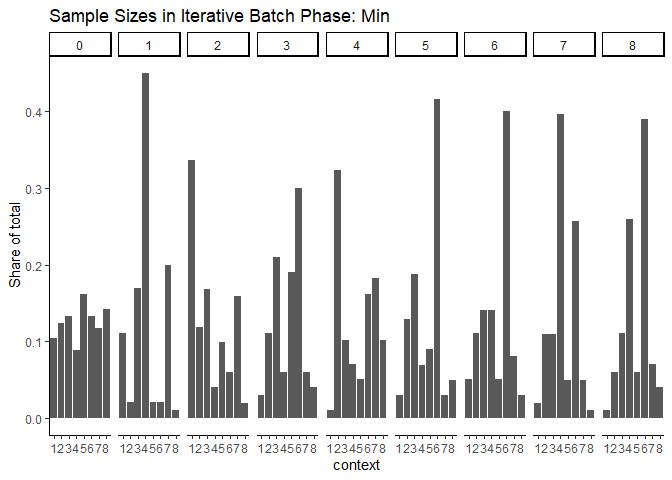
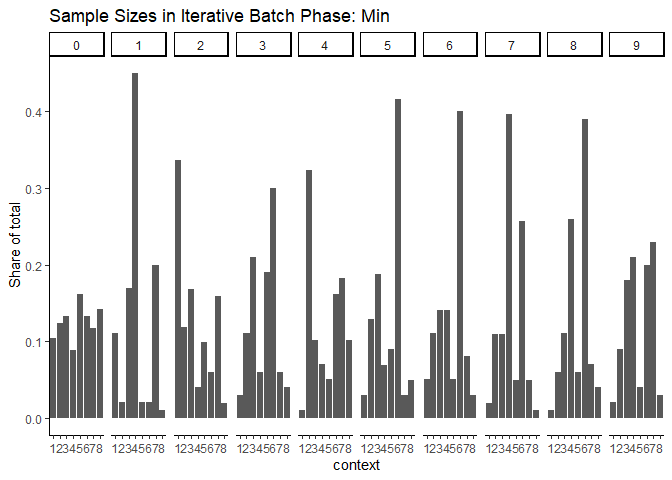
updating data: batch 9, min discriminatory context

diff --git a/04_update_prob/get_qualtrics_data_political_candidates.md b/04_update_prob/get_qualtrics_data_political_candidates.md
@@ -53,7 +53,7 @@ survey_name <- "Political Candidates"
 df <- load_qualtrics(survey_name)
 ```
 
-    ##   |                                                                              |                                                                      |   0%  |                                                                              |=======                                                               |  10%  |                                                                              |================================                                      |  46%  |                                                                              |=========================================================             |  82%  |                                                                              |======================================================================| 100%
+    ##   |                                                                              |                                                                      |   0%  |                                                                              |=======                                                               |  10%  |                                                                              |===========================                                           |  39%  |                                                                              |============================================                          |  63%  |                                                                              |=============================================================         |  87%  |                                                                              |====================================================================  |  97%  |                                                                              |======================================================================| 100%
 
     ## 
     ## ── Column specification ────────────────────────────────────────────────────────
@@ -88,7 +88,7 @@ df %>%
   nrow()
 ```
 
-    ## [1] 1956
+    ## [1] 2058
 
 ``` r
 # drop test data
@@ -101,21 +101,21 @@ df %>%
   nrow()
 ```
 
-    ## [1] 1833
+    ## [1] 1935
 
 ``` r
 # average finished rate
 mean(df$Finished)
 ```
 
-    ## [1] 0.9956356
+    ## [1] 0.9958656
 
 ``` r
 # average time to complete
 mean(df$`Duration (in seconds)`)
 ```
 
-    ## [1] 96.20786
+    ## [1] 96.88786
 
 ``` r
 # compare amount of time spent
@@ -133,7 +133,7 @@ df %>%
     ## # A tibble: 1 × 4
     ##   `Duration (in seconds)_mean` Duration (in seconds)_mi…¹ Duration (in seconds…²
     ##                          <dbl>                      <dbl>                  <dbl>
-    ## 1                         1.60                      0.433                   25.6
+    ## 1                         1.61                      0.433                   25.6
     ## # ℹ abbreviated names: ¹`Duration (in seconds)_min`,
     ## #   ²`Duration (in seconds)_max`
     ## # ℹ 1 more variable: `Duration (in seconds)_median` <dbl>
@@ -159,7 +159,7 @@ df %>%
     ## 3 2023-12-30 2023-12-30 11:00:19
     ## 4 2024-01-02 2024-01-02 15:04:43
     ## 5 2024-01-03 2024-01-03 18:00:25
-    ## 6 2024-01-04 2024-01-04 11:50:45
+    ## 6 2024-01-04 2024-01-04 12:20:36
 
 ``` r
 df <- df %>%
@@ -180,6 +180,7 @@ df <- df %>%
       StartDate_clean <= ymd_hms("2024-01-04-10-05-00") ~ 6,
       StartDate_clean <= ymd_hms("2024-01-04-10-55-00") ~ 7,
       StartDate_clean <= ymd_hms("2024-01-04-11-58-00") ~ 8,
+      StartDate_clean <= ymd_hms("2024-01-04-12-33-00") ~ 9,
       TRUE ~ NA_integer_
     ),
     batch_type = case_when(
@@ -200,7 +201,7 @@ df %>%
     ## `summarise()` has grouped output by 'batch_type'. You can override using the
     ## `.groups` argument.
 
-    ## # A tibble: 13 × 3
+    ## # A tibble: 14 × 3
     ## # Groups:   batch_type [3]
     ##    batch_type                 batch_id     n
     ##    <chr>                         <dbl> <int>
@@ -216,24 +217,36 @@ df %>%
     ## 10 Iterative Batch Phase: Min        6   101
     ## 11 Iterative Batch Phase: Min        7   101
     ## 12 Iterative Batch Phase: Min        8   100
-    ## 13 Warmup                            0   323
+    ## 13 Iterative Batch Phase: Min        9   102
+    ## 14 Warmup                            0   323
 
 ## Survey Validation
 
 ``` r
 # check ID uniquely identifies rows in data
 if (length(unique(df$`Prolific ID Q`)) != nrow(df)) {
-  print("ID is not unique")
+  warning("ID is not unique")
 }
 ```
 
-    ## [1] "ID is not unique"
+    ## Warning: ID is not unique
 
 ``` r
-if (unique(df$Status) != "IP Address") {
-  print("Test data included in the analysis file")
+if (!all(unique(df$Status) == "IP Address")) {
+  warning("Test/spam data included in the analysis file")
+  print(str_glue("Number of observations in data: {nrow(df)}"))
+  print(str_glue("Status values in data: {str_c(unique(df$Status), collapse=', ')}"))
+  df <- df %>% 
+    filter(Status == "IP Address")
+  print(str_glue("Number of observations left in data: {nrow(df)}"))
 }
 ```
+
+    ## Warning: Test/spam data included in the analysis file
+
+    ## Number of observations in data: 1634
+    ## Status values in data: IP Address, Spam
+    ## Number of observations left in data: 1633
 
 ``` r
 # check embedded data variables match probabilities for all iterative batches
@@ -248,7 +261,7 @@ df %>%
   distinct()
 ```
 
-    ## # A tibble: 13 × 8
+    ## # A tibble: 14 × 8
     ##    batch_id   pi1   pi2   pi3   pi4   pi5   pi6   pi7
     ##       <dbl> <dbl> <dbl> <dbl> <dbl> <dbl> <dbl> <dbl>
     ##  1        0 0.125 0.25  0.375 0.5   0.625 0.75  0.875
@@ -264,6 +277,7 @@ df %>%
     ## 11        6 0.045 0.123 0.288 0.392 0.474 0.891 0.965
     ## 12        7 0.022 0.112 0.218 0.572 0.637 0.878 0.963
     ## 13        8 0.017 0.073 0.193 0.444 0.498 0.869 0.968
+    ## 14        9 0.027 0.093 0.243 0.484 0.547 0.783 0.968
 
 ``` r
 # check consent means their responses are missing
@@ -288,7 +302,7 @@ df <- df %>%
     ## Warning in check_consent(.): 1 survey respondents who do not consent with
     ## non-missing responses
 
-    ## Warning in check_consent(.): 1531 respondents in the data
+    ## Warning in check_consent(.): 1632 respondents in the data
 
 ``` r
 # check that all completed
@@ -322,7 +336,7 @@ df <- df %>%
     ## Warning in check_completion(.): Dropping 8 survey respondents who did not
     ## finish
 
-    ## Warning in check_completion(.): 1523 respondents in the data
+    ## Warning in check_completion(.): 1624 respondents in the data
 
 ``` r
 df <- df %>%
@@ -365,12 +379,12 @@ df <- df %>%
     ## Warning in check_commitment(.): Dropping 1 survey respondents did not pass
     ## commitment check 1
 
-    ## Warning in check_commitment(.): 1522 respondents in the data
+    ## Warning in check_commitment(.): 1623 respondents in the data
 
     ## Warning in check_commitment(.): Dropping 2 survey respondents who did not pass
     ## commitment check 2
 
-    ## Warning in check_commitment(.): 1520 respondents in the data
+    ## Warning in check_commitment(.): 1621 respondents in the data
 
 ``` r
 # check ID is unique again
@@ -400,24 +414,24 @@ if (length(unique(df$`Prolific ID Q`)) != nrow(df)) {
 
     ## Warning: ID is not unique
 
-    ## Number of rows in data: 1520
-    ## # A tibble: 1,520 × 8
+    ## Number of rows in data: 1621
+    ## # A tibble: 1,621 × 8
     ##        n StartDate_clean     EndDate             flag_first_obs
     ##    <int> <dttm>              <dttm>                       <dbl>
     ##  1     2 2024-01-03 12:29:24 2024-01-03 12:31:07              1
     ##  2     2 2024-01-03 12:31:17 2024-01-03 12:33:13              0
     ##  3     2 2024-01-04 09:54:05 2024-01-04 09:55:22              1
     ##  4     2 2024-01-04 09:55:45 2024-01-04 09:56:47              0
-    ##  5     1 2023-12-26 18:01:49 2023-12-26 18:03:03              1
-    ##  6     1 2023-12-26 18:01:49 2023-12-26 18:02:38              1
-    ##  7     1 2023-12-26 18:01:49 2023-12-26 18:02:59              1
-    ##  8     1 2023-12-26 18:01:54 2023-12-26 18:02:47              1
-    ##  9     1 2023-12-26 18:02:01 2023-12-26 18:03:53              1
-    ## 10     1 2023-12-26 18:02:05 2023-12-26 18:04:08              1
-    ## # ℹ 1,510 more rows
+    ##  5     2 2024-01-04 12:12:57 2024-01-04 12:13:43              1
+    ##  6     2 2024-01-04 12:13:50 2024-01-04 12:14:29              0
+    ##  7     1 2023-12-26 18:01:49 2023-12-26 18:03:03              1
+    ##  8     1 2023-12-26 18:01:49 2023-12-26 18:02:38              1
+    ##  9     1 2023-12-26 18:01:49 2023-12-26 18:02:59              1
+    ## 10     1 2023-12-26 18:01:54 2023-12-26 18:02:47              1
+    ## # ℹ 1,611 more rows
     ## # ℹ 4 more variables: `Duration (in seconds)` <dbl>, Finished <lgl>,
     ## #   batch_id <dbl>, batch_type <chr>
-    ## Number of rows in data after dropping duplicate ID: 1518
+    ## Number of rows in data after dropping duplicate ID: 1618
 
 ``` r
 stopifnot(length(unique(df$`Prolific ID Q`)) == nrow(df))
@@ -452,8 +466,8 @@ df %>%
     ##  6 Iterative Batch Phase: Max 6          32
     ##  7 Iterative Batch Phase: Max 7          11
     ##  8 Iterative Batch Phase: Max 8          39
-    ##  9 Iterative Batch Phase: Min 1          60
-    ## 10 Iterative Batch Phase: Min 2          98
+    ##  9 Iterative Batch Phase: Min 1          62
+    ## 10 Iterative Batch Phase: Min 2         107
     ## # ℹ 14 more rows
 
 ``` r
@@ -465,7 +479,7 @@ df %>%
     ## `summarise()` has grouped output by 'batch_type'. You can override using the
     ## `.groups` argument.
 
-    ## # A tibble: 13 × 3
+    ## # A tibble: 14 × 3
     ## # Groups:   batch_type [3]
     ##    batch_type                 batch_id     n
     ##    <chr>                         <dbl> <int>
@@ -481,7 +495,8 @@ df %>%
     ## 10 Iterative Batch Phase: Min        6   100
     ## 11 Iterative Batch Phase: Min        7   101
     ## 12 Iterative Batch Phase: Min        8   100
-    ## 13 Warmup                            0   317
+    ## 13 Iterative Batch Phase: Min        9   100
+    ## 14 Warmup                            0   317
 
 ``` r
 df %>%
@@ -612,20 +627,20 @@ df_clean %>%
   verify(!is.na(chose_younger))
 ```
 
-    ## # A tibble: 1,518 × 10
+    ## # A tibble: 1,618 × 10
     ##    chose_younger    Q1    Q2    Q3    Q4    Q5    Q6    Q7    Q8 context
     ##            <dbl> <dbl> <dbl> <dbl> <dbl> <dbl> <dbl> <dbl> <dbl> <ord>  
-    ##  1             1    NA    NA    NA    NA     1    NA    NA    NA 5      
-    ##  2             1    NA    NA    NA    NA    NA    NA    NA     1 2      
-    ##  3             0     0    NA    NA    NA    NA    NA    NA    NA 6      
-    ##  4             1    NA    NA    NA    NA    NA     1    NA    NA 8      
-    ##  5             0    NA    NA    NA    NA    NA    NA    NA     0 6      
-    ##  6             1    NA    NA    NA    NA    NA     1    NA    NA 6      
-    ##  7             1    NA    NA    NA    NA    NA    NA    NA     1 2      
-    ##  8             1    NA    NA    NA     1    NA    NA    NA    NA 6      
-    ##  9             1    NA    NA    NA    NA     1    NA    NA    NA 6      
-    ## 10             1    NA     1    NA    NA    NA    NA    NA    NA 7      
-    ## # ℹ 1,508 more rows
+    ##  1             1    NA    NA    NA    NA    NA    NA     1    NA 4      
+    ##  2             1    NA    NA    NA    NA     1    NA    NA    NA 5      
+    ##  3             1    NA    NA    NA    NA    NA    NA    NA     1 2      
+    ##  4             0     0    NA    NA    NA    NA    NA    NA    NA 6      
+    ##  5             1    NA    NA    NA    NA    NA     1    NA    NA 8      
+    ##  6             0    NA    NA    NA    NA    NA    NA    NA     0 6      
+    ##  7             1    NA    NA    NA    NA    NA     1    NA    NA 6      
+    ##  8             1    NA    NA    NA    NA    NA    NA    NA     1 2      
+    ##  9             1    NA    NA    NA     1    NA    NA    NA    NA 6      
+    ## 10             1    NA    NA    NA    NA     1    NA    NA    NA 6      
+    ## # ℹ 1,608 more rows
 
 ``` r
 df_clean %>%
@@ -640,14 +655,14 @@ df_clean %>%
     ## # A tibble: 8 × 4
     ##   context     n resp1 resp0
     ##   <ord>   <int> <dbl> <int>
-    ## 1 1         105    82    23
-    ## 2 2         177   128    49
-    ## 3 3         167   119    48
-    ## 4 4         186   131    55
-    ## 5 5         363   282    81
-    ## 6 6         275   189    86
-    ## 7 7         131    95    36
-    ## 8 8         114    87    27
+    ## 1 1         107    83    24
+    ## 2 2         186   134    52
+    ## 3 3         185   136    49
+    ## 4 4         207   147    60
+    ## 5 5         367   284    83
+    ## 6 6         295   204    91
+    ## 7 7         154   117    37
+    ## 8 8         117    90    27
 
 ``` r
 # identify context desc
@@ -679,7 +694,7 @@ df_clean %>%
     ## # A tibble: 1 × 1
     ##   per_pass_attention_check
     ##                      <dbl>
-    ## 1                    0.961
+    ## 1                    0.962
 
 ``` r
 df_clean <- df_clean %>%
@@ -716,14 +731,14 @@ df_clean %>%
     ## # A tibble: 8 × 3
     ##   race                                  n     per
     ##   <chr>                             <int>   <dbl>
-    ## 1 White                              1105 0.728  
-    ## 2 Asian                               141 0.0929 
-    ## 3 Black or African American           140 0.0922 
-    ## 4 Multiracial                          76 0.0501 
-    ## 5 Other                                27 0.0178 
-    ## 6 Prefer not to disclose               15 0.00988
-    ## 7 American Indian or Alaskan Native    10 0.00659
-    ## 8 Native Hawaiian                       4 0.00264
+    ## 1 White                              1179 0.729  
+    ## 2 Black or African American           152 0.0939 
+    ## 3 Asian                               150 0.0927 
+    ## 4 Multiracial                          80 0.0494 
+    ## 5 Other                                27 0.0167 
+    ## 6 Prefer not to disclose               15 0.00927
+    ## 7 American Indian or Alaskan Native    10 0.00618
+    ## 8 Native Hawaiian                       5 0.00309
 
 ``` r
 df_clean %>%
@@ -746,8 +761,8 @@ df_clean %>%
     ## # A tibble: 2 × 2
     ##   female count
     ##   <lgl>  <int>
-    ## 1 FALSE    821
-    ## 2 TRUE     697
+    ## 1 FALSE    875
+    ## 2 TRUE     743
 
 ``` r
 df_clean %>%
@@ -760,7 +775,7 @@ df_clean %>%
     ## # A tibble: 1 × 2
     ##   count_hispanic per_hispanic
     ##            <int>        <dbl>
-    ## 1            137       0.0903
+    ## 1            148       0.0915
 
 ## Clean Data Validation
 
